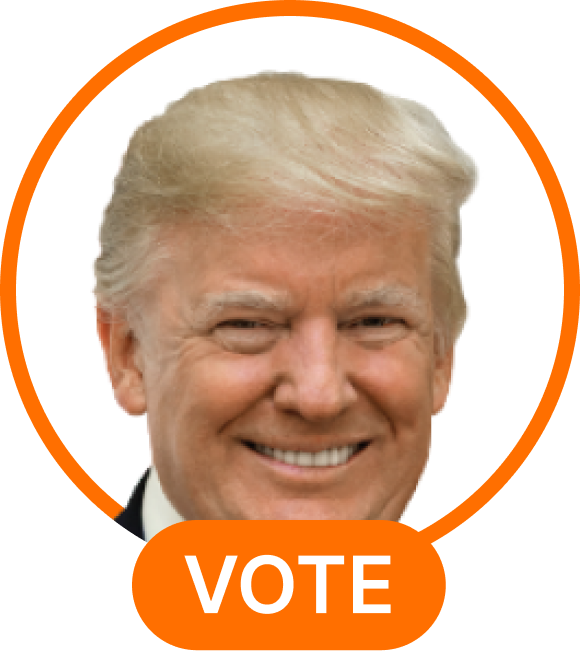
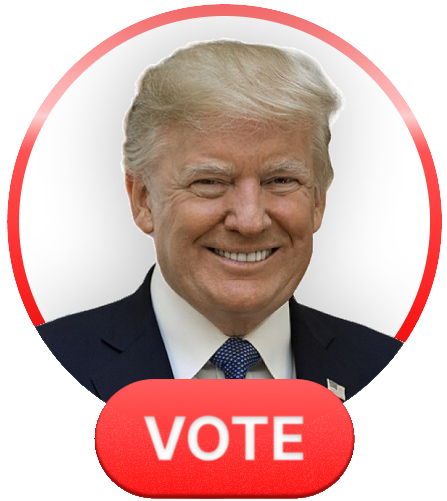
colors and sizes update

diff --git a/components/VotingArea.jsx b/components/VotingArea.jsx
@@ -71,10 +71,10 @@ export default function VotingArea({ handleVote }) {
               onClick={() => handleVoteClick('vote_1')}
               src="/assets/stars-off/trump.png"
               alt="Vote for Trump"
-              width={135}
-              height={132}
+              width={145}
+              height={163}
               quality={100}
-              priority
+              
               className="front active:scale-95 active:shadow-inner transition-transform cursor-pointer"
             />
           </div>
@@ -109,14 +109,15 @@ export default function VotingArea({ handleVote }) {
             opacity: isAnimating.vote_2 ? 1 : 0,
           }}
         />
-        <div className={`flip-container ${isAnimating.vote_2 ? 'shake' : ''}`} style={{ transform: `rotateY(${flipCount.vote_2 * 360}deg)` }}>
+        <div className={`flip-container ${isAnimating.vote_2 ? 'shake-hard' : ''}`} style={{ transform: `rotateY(${flipCount.vote_2 * 360}deg)` }}>
           <div className="flipper">
             <Image
               onClick={() => handleVoteClick('vote_2')}
               src="/assets/stars-off/kamalla.png"
               alt="Vote for Kamala"
-              width={135}
-              height={132}
+              width={145}
+              height={163}
+              quality={100}
               className="front active:scale-95 active:shadow-inner transition-transform cursor-pointer"
             />
           </div>

diff --git a/app/page.jsx b/app/page.jsx
@@ -77,7 +77,7 @@ export default function Home() {
   const vote2Percentage = totalVotes > 0 ? (vote2Count / totalVotes) * 100 : 0;
 
   return (
-    <div className="min-h-screen flex flex-col items-center p-3">
+    <div className="min-h-screen flex flex-col items-center p-3 max-w-sm mx-auto">
       {/* Header */}
 
       {/* Main Section */}
@@ -95,14 +95,14 @@ export default function Home() {
           <div className="flex flex-col items-center">
             <span className="font-inter text-[16px] font-normal leading-[16px] text-center text-white">
               TRUMP 
-              <span className="text-orange"> {vote1Percentage.toFixed(0)}%</span>
+              <span className="text-redtrump"> {vote1Percentage.toFixed(0)}%</span>
             </span>
           </div>
           {/* Kamala Progress */}
           <div className="flex flex-col items-center">
             <span className="font-inter text-[16px] font-normal leading-[16px] text-center text-white">
               KAMALA 
-              <span className="text-purple"> {vote2Percentage.toFixed(0)}%</span>
+              <span className="text-bluekamala"> {vote2Percentage.toFixed(0)}%</span>
             </span>
           </div>
         </div>

diff --git a/components/ProgressBar.jsx b/components/ProgressBar.jsx
@@ -10,7 +10,7 @@
         {Array.from({ length: vote1Blocks }).map((_, index) => (
           <div
             key={index}
-            className={`bg-orange h-6 w-2 ${
+            className={`bg-redtrump h-6 w-2 ${
               index === 0 ? 'rounded-left' : ''
             } ${index === vote1Blocks - 1 ? 'rounded-right' : ''} mr-0.5`}
           />
@@ -22,7 +22,7 @@
         {Array.from({ length: vote2Blocks }).map((_, index) => (
           <div
             key={index}
-            className={`bg-purple h-6 w-2 ${
+            className={`bg-bluekamala h-6 w-2 ${
               index === 0 ? 'rounded-left' : ''
             } ${index === vote2Blocks - 1 ? 'rounded-right' : ''} mr-0.5`}
           />

diff --git a/app/layout.jsx b/app/layout.jsx
@@ -30,7 +30,7 @@ export default function RootLayout({ children }) {
   return (
     <html lang="en">
       <body
-        className={`${spaceGrotesk.variable} ${inter.variable} antialiased`} // Apply both Space Grotesk and Inter globally
+        className={`${spaceGrotesk.variable} ${inter.variable} antialiased max-w-sm mx-auto`} // Apply both Space Grotesk and Inter globally
       >
         <Header />
         {children}

diff --git a/components/Header.jsx b/components/Header.jsx
@@ -13,7 +13,7 @@ const Header = () => {
   return (
     <header className="flex justify-between items-center">
       <div className="flex items-center w-1/2">
-        <span className="bg-orange-500 text-white p-4 py-1 flex items-left">
+        <span className="text-white p-4 py-1 flex items-left">
           <StarSwitch />
         </span>
       </div>          

diff --git a/tailwind.config.js b/tailwind.config.js
@@ -26,8 +26,8 @@ module.exports = {
   		colors: {
 			primary: "#ffffff",
 			secondary:"#6B6B6B",
-			orange: "#FF6F00",
-			purple: "#BE73FE",
+			redtrump: "#FF1414",
+			bluekamala: "#3037FF",
   			border: 'rgba(255, 255, 255, 0.1)',
   			input: 'hsl(var(--input))',
   			ring: 'hsl(var(--ring))',

diff --git a/app/globals.css b/app/globals.css
@@ -28,8 +28,8 @@ body {
 
 .flip-container {
   perspective: 1000px;
-  width: 135px;
-  height: 132px;
+  width: 145px;
+  height: 163px;
   transition: transform 0.3s;
   transform-style: preserve-3d;
 }
